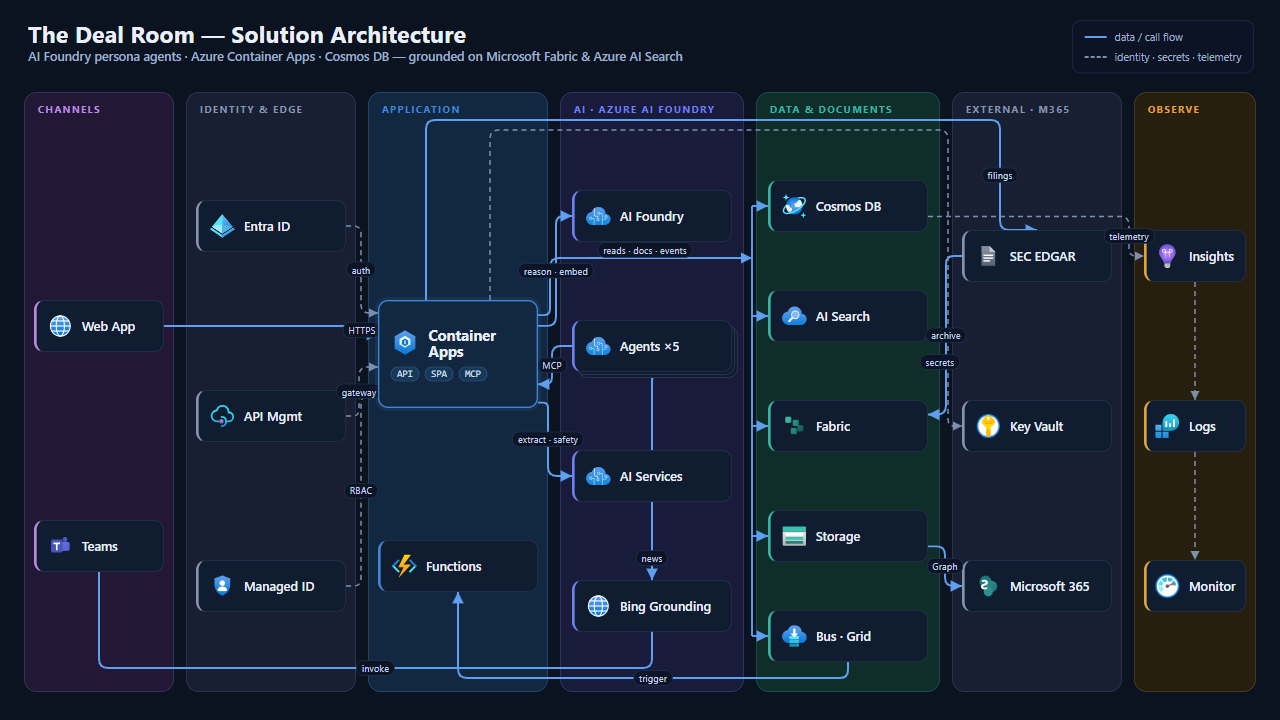
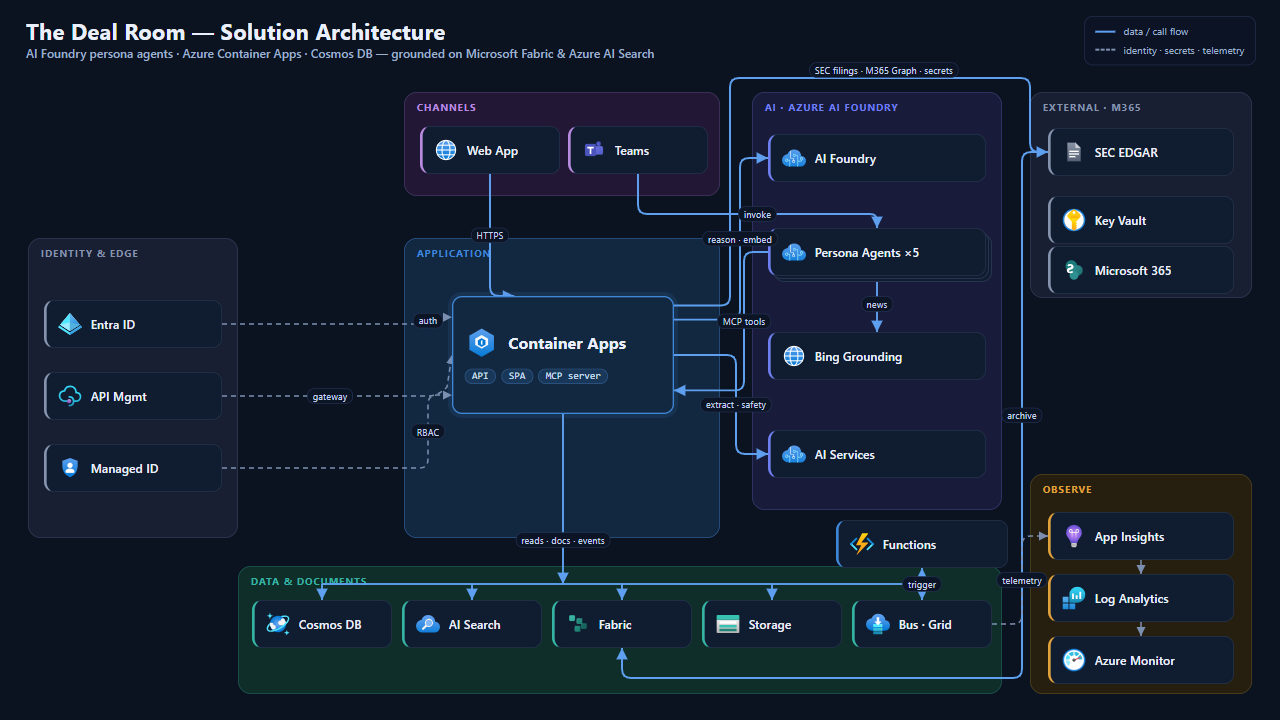
Rework slide diagram into a hub-and-spoke architecture map
The previous slide used a strict left-to-right column pipeline, which reads
like a flowchart. Real architecture diagrams are hub-and-spoke / centered-
containment with multi-directional flow. Rebuilt accordingly:

- Container Apps core is centered; domains are grouped around it and connectors
  radiate outward — north to Channels, west to Identity & Edge, east to AI
  Foundry, south to a Data & Documents bus, and into the External and Observe
  corners.
- Reordered AI nodes so the Bing "news" edge no longer cuts through AI Services;
  collapsed the three external-system links into one clean grouped spoke;
  moved Functions clear of the AI zone; kept the data-bus, legend, 3-size type
  scale, single focal hub and flat cards.

Updated DESIGN-NOTES.md (principle #1 + iteration history v1/v2/v3).
deal-room-architecture-slide.png re-exported at 1280x720.

diff --git a/docs/architecture/deal-room-architecture-slide.html b/docs/architecture/deal-room-architecture-slide.html
@@ -5,12 +5,12 @@
 <title>The Deal Room — Architecture Map</title>
 <style>
   :root{
-    --ink:#eaf0fb; --dim:#9fb0cc; --faint:#7386a5;
-    --app:#3f86d6; --appbg:#122740; --appedge:#295583;
+    --ink:#eaf0fb; --dim:#9fb0cc;
+    --app:#3f86d6; --appbg:#122740; --appedge:#2f6098;
     --ai:#6f7ff0; --aibg:#181c3a; --aiedge:#3a3f7a;
-    --data:#37b3a3; --databg:#0f2e2a; --dataedge:#1f5f56;
+    --data:#37b3a3; --databg:#0f2e2a; --dataedge:#1f6157;
     --ext:#8593ad; --extbg:#181f32; --extedge:#333f5a;
-    --chan:#b98be0; --chanbg:#221836; --chanedge:#493a66;
+    --chan:#b98be0; --chanbg:#221836; --chanedge:#4b3c68;
     --obs:#e0a23c; --obsbg:#261f10; --obsedge:#5a4a1f;
     --flow:#5ea0ef; --ctrl:#7d8fb0;
     --card:#101c30; --cardedge:#26344f;
@@ -20,40 +20,37 @@
   #stage{position:relative;width:1280px;height:720px;overflow:hidden;background:#0b1220;color:var(--ink);
     font-family:"Segoe UI",Roboto,Helvetica,Arial,sans-serif;-webkit-font-smoothing:antialiased}
 
-  /* type scale: exactly 3 sizes (NNG visual hierarchy) */
-  .h-title{position:absolute;left:28px;top:18px;font-size:23px;font-weight:700;letter-spacing:.2px;z-index:6}
-  .h-sub{position:absolute;left:28px;top:48px;font-size:12.5px;color:var(--dim);font-weight:500;z-index:6}
+  .h-title{position:absolute;left:26px;top:16px;font-size:22px;font-weight:700;letter-spacing:.2px;z-index:6}
+  .h-sub{position:absolute;left:26px;top:45px;font-size:12px;color:var(--dim);font-weight:500;z-index:6}
 
-  /* common-region zones */
   .zone{position:absolute;border-radius:13px;border:1px solid;z-index:1}
-  .zone .zh{position:absolute;top:9px;left:13px;font-size:10px;font-weight:700;letter-spacing:1.3px;text-transform:uppercase}
+  .zone .zh{position:absolute;top:8px;left:12px;font-size:9.5px;font-weight:700;letter-spacing:1.2px;text-transform:uppercase}
 
-  /* nodes: one consistent shape/size per type */
-  .n{position:absolute;height:52px;background:var(--card);border:1px solid var(--cardedge);border-radius:10px;
+  .n{position:absolute;height:48px;background:var(--card);border:1px solid var(--cardedge);border-radius:10px;
     display:flex;align-items:center;gap:9px;padding:0 11px;z-index:4}
-  .n img{width:25px;height:25px;flex:0 0 auto}
-  .n b{font-size:12.5px;font-weight:600;line-height:1.15;letter-spacing:.1px}
-  .n.hub{height:108px;flex-direction:column;align-items:flex-start;justify-content:center;gap:7px;
-    background:var(--appbg);border:1.5px solid var(--app);box-shadow:0 0 0 3px rgba(63,134,214,.12);z-index:5}
-  .n.hub .row{display:flex;align-items:center;gap:9px}
-  .n.hub img{width:29px;height:29px}
-  .n.hub b{font-size:14.5px;font-weight:700}
+  .n img{width:24px;height:24px;flex:0 0 auto}
+  .n b{font-size:12px;font-weight:600;line-height:1.15;letter-spacing:.1px}
+  .n.hub{height:118px;flex-direction:column;align-items:flex-start;justify-content:center;gap:8px;
+    background:var(--appbg);border:1.5px solid var(--app);box-shadow:0 0 0 4px rgba(63,134,214,.12);z-index:5}
+  .n.hub .row{display:flex;align-items:center;gap:10px}
+  .n.hub img{width:34px;height:34px}
+  .n.hub b{font-size:16px;font-weight:700}
   .n.hub .eps{display:flex;gap:5px}
-  .n.hub .eps i{font-style:normal;font-size:9.5px;color:#cfe0f6;background:rgba(63,134,214,.16);
-    border:1px solid rgba(94,160,239,.32);border-radius:9px;padding:1px 6px;font-family:Consolas,monospace}
+  .n.hub .eps i{font-style:normal;font-size:10px;color:#cfe0f6;background:rgba(63,134,214,.16);
+    border:1px solid rgba(94,160,239,.32);border-radius:9px;padding:1px 7px;font-family:Consolas,monospace}
   .n.stack{box-shadow:3px 3px 0 -1px var(--card),3px 3px 0 0 var(--cardedge),6px 6px 0 -1px var(--card),6px 6px 0 0 var(--cardedge)}
-  .n.t-app{border-left:3px solid var(--app)} .n.t-ai{border-left:3px solid var(--ai)}
-  .n.t-data{border-left:3px solid var(--data)} .n.t-ext{border-left:3px solid var(--ext)}
-  .n.t-chan{border-left:3px solid var(--chan)} .n.t-obs{border-left:3px solid var(--obs)}
+  .n.t-ai{border-left:3px solid var(--ai)} .n.t-data{border-left:3px solid var(--data)}
+  .n.t-ext{border-left:3px solid var(--ext)} .n.t-chan{border-left:3px solid var(--chan)}
+  .n.t-obs{border-left:3px solid var(--obs)} .n.t-app{border-left:3px solid var(--app)}
 
   svg#wires{position:absolute;inset:0;width:1280px;height:720px;z-index:3;pointer-events:none}
   .elabel{position:absolute;z-index:4;font-size:9px;color:#c3d3ee;background:#0c1526;border:1px solid #223151;
     border-radius:7px;padding:1px 5px;transform:translate(-50%,-50%);white-space:nowrap;letter-spacing:.2px}
 
-  .legend{position:absolute;right:26px;top:20px;z-index:6;display:flex;flex-direction:column;gap:6px;
-    background:rgba(12,20,38,.82);border:1px solid #223151;border-radius:9px;padding:9px 12px}
-  .legend .lr{display:flex;align-items:center;gap:8px;font-size:10.5px;color:var(--dim)}
-  .legend .sw{width:22px;height:0;border-top:2px solid var(--flow)}
+  .legend{position:absolute;right:24px;top:16px;z-index:6;display:flex;flex-direction:column;gap:5px;
+    background:rgba(12,20,38,.82);border:1px solid #223151;border-radius:9px;padding:8px 11px}
+  .legend .lr{display:flex;align-items:center;gap:8px;font-size:10px;color:var(--dim)}
+  .legend .sw{width:20px;height:0;border-top:2px solid var(--flow)}
   .legend .sw.d{border-top:2px dashed var(--ctrl)}
 </style>
 </head>
@@ -66,50 +63,57 @@
     <div class="lr"><span class="sw d"></span> identity · secrets · telemetry</div>
   </div>
 
-  <!-- ZONES -->
-  <div class="zone" style="left:24px;top:92px;width:150px;height:600px;background:var(--chanbg);border-color:var(--chanedge)"><div class="zh" style="color:var(--chan)">Channels</div></div>
-  <div class="zone" style="left:186px;top:92px;width:170px;height:600px;background:var(--extbg);border-color:var(--extedge)"><div class="zh" style="color:var(--ext)">Identity &amp; Edge</div></div>
-  <div class="zone" style="left:368px;top:92px;width:180px;height:600px;background:var(--appbg);border-color:var(--appedge)"><div class="zh" style="color:var(--app)">Application</div></div>
-  <div class="zone" style="left:560px;top:92px;width:184px;height:600px;background:var(--aibg);border-color:var(--aiedge)"><div class="zh" style="color:var(--ai)">AI · Azure AI Foundry</div></div>
-  <div class="zone" style="left:756px;top:92px;width:184px;height:600px;background:var(--databg);border-color:var(--dataedge)"><div class="zh" style="color:var(--data)">Data &amp; Documents</div></div>
-  <div class="zone" style="left:952px;top:92px;width:170px;height:600px;background:var(--extbg);border-color:var(--extedge)"><div class="zh" style="color:var(--ext)">External · M365</div></div>
-  <div class="zone" style="left:1134px;top:92px;width:122px;height:600px;background:var(--obsbg);border-color:var(--obsedge)"><div class="zh" style="color:var(--obs)">Observe</div></div>
+  <!-- ZONES (grouped domains around the hub) -->
+  <div class="zone" style="left:404px;top:92px;width:316px;height:104px;background:var(--chanbg);border-color:var(--chanedge)"><div class="zh" style="color:var(--chan)">Channels</div></div>
+  <div class="zone" style="left:404px;top:238px;width:316px;height:300px;background:var(--appbg);border-color:var(--appedge)"><div class="zh" style="color:var(--app)">Application</div></div>
+  <div class="zone" style="left:28px;top:238px;width:210px;height:300px;background:var(--extbg);border-color:var(--extedge)"><div class="zh" style="color:var(--ext)">Identity &amp; Edge</div></div>
+  <div class="zone" style="left:752px;top:92px;width:250px;height:418px;background:var(--aibg);border-color:var(--aiedge)"><div class="zh" style="color:var(--ai)">AI · Azure AI Foundry</div></div>
+  <div class="zone" style="left:238px;top:566px;width:764px;height:128px;background:var(--databg);border-color:var(--dataedge)"><div class="zh" style="color:var(--data)">Data &amp; Documents</div></div>
+  <div class="zone" style="left:1030px;top:92px;width:222px;height:206px;background:var(--extbg);border-color:var(--extedge)"><div class="zh" style="color:var(--ext)">External · M365</div></div>
+  <div class="zone" style="left:1030px;top:474px;width:222px;height:220px;background:var(--obsbg);border-color:var(--obsedge)"><div class="zh" style="color:var(--obs)">Observe</div></div>
 
   <svg id="wires"></svg>
 
-  <!-- NODES -->
-  <!-- Channels -->
-  <div class="n t-chan" id="web"   style="left:34px;top:300px;width:130px"><img src="icons/web.svg"><b>Web App</b></div>
-  <div class="n t-chan" id="teams" style="left:34px;top:520px;width:130px"><img src="icons/teams.svg"><b>Teams</b></div>
-  <!-- Identity & Edge -->
-  <div class="n t-ext" id="entra" style="left:196px;top:200px;width:150px"><img src="icons/entra.svg"><b>Entra ID</b></div>
-  <div class="n t-ext" id="apim"  style="left:196px;top:390px;width:150px"><img src="icons/apim.svg"><b>API Mgmt</b></div>
-  <div class="n t-ext" id="mi"    style="left:196px;top:560px;width:150px"><img src="icons/managedidentity.svg"><b>Managed ID</b></div>
-  <!-- Application -->
-  <div class="n hub" id="ca" style="left:378px;top:300px;width:160px">
+  <!-- CHANNELS (top) -->
+  <div class="n t-chan" id="web"   style="left:420px;top:126px;width:140px"><img src="icons/web.svg"><b>Web App</b></div>
+  <div class="n t-chan" id="teams" style="left:568px;top:126px;width:140px"><img src="icons/teams.svg"><b>Teams</b></div>
+
+  <!-- APPLICATION HUB (center) -->
+  <div class="n hub" id="ca" style="left:452px;top:296px;width:222px">
     <div class="row"><img src="icons/containerapps.svg"><b>Container Apps</b></div>
-    <div class="eps"><i>API</i><i>SPA</i><i>MCP</i></div>
+    <div class="eps"><i>API</i><i>SPA</i><i>MCP server</i></div>
   </div>
-  <div class="n t-app" id="func" style="left:378px;top:540px;width:160px"><img src="icons/function.svg"><b>Functions</b></div>
-  <!-- AI -->
-  <div class="n t-ai" id="foundry"      style="left:572px;top:190px;width:160px"><img src="icons/cognitive.svg"><b>AI Foundry</b></div>
-  <div class="n t-ai stack" id="agents" style="left:572px;top:320px;width:160px"><img src="icons/cognitive.svg"><b>Agents ×5</b></div>
-  <div class="n t-ai" id="aisvcs"       style="left:572px;top:450px;width:160px"><img src="icons/cognitive.svg"><b>AI Services</b></div>
-  <div class="n t-ai" id="bing"         style="left:572px;top:580px;width:160px"><img src="icons/web.svg"><b>Bing Grounding</b></div>
-  <!-- Data -->
-  <div class="n t-data" id="cosmos"  style="left:768px;top:180px;width:160px"><img src="icons/cosmos.svg"><b>Cosmos DB</b></div>
-  <div class="n t-data" id="search"  style="left:768px;top:290px;width:160px"><img src="icons/search.svg"><b>AI Search</b></div>
-  <div class="n t-data" id="fabric"  style="left:768px;top:400px;width:160px"><img src="icons/fabric.svg"><b>Fabric</b></div>
-  <div class="n t-data" id="storage" style="left:768px;top:510px;width:160px"><img src="icons/storage.svg"><b>Storage</b></div>
-  <div class="n t-data" id="msg"     style="left:768px;top:610px;width:160px"><img src="icons/servicebus.svg"><b>Bus · Grid</b></div>
-  <!-- External -->
-  <div class="n t-ext" id="edgar" style="left:962px;top:230px;width:150px"><img src="icons/edgar.svg"><b>SEC EDGAR</b></div>
-  <div class="n t-ext" id="kv"    style="left:962px;top:400px;width:150px"><img src="icons/keyvault.svg"><b>Key Vault</b></div>
-  <div class="n t-ext" id="m365"  style="left:962px;top:560px;width:150px"><img src="icons/sharepoint.svg"><b>Microsoft 365</b></div>
-  <!-- Observe -->
-  <div class="n t-obs" id="appins" style="left:1144px;top:230px;width:102px;padding:0 8px"><img src="icons/appinsights.svg"><b>Insights</b></div>
-  <div class="n t-obs" id="law"    style="left:1144px;top:400px;width:102px;padding:0 8px"><img src="icons/loganalytics.svg"><b>Logs</b></div>
-  <div class="n t-obs" id="mon"    style="left:1144px;top:560px;width:102px;padding:0 8px"><img src="icons/monitor.svg"><b>Monitor</b></div>
+
+  <!-- IDENTITY & EDGE (left) -->
+  <div class="n t-ext" id="entra" style="left:44px;top:300px;width:178px"><img src="icons/entra.svg"><b>Entra ID</b></div>
+  <div class="n t-ext" id="apim"  style="left:44px;top:372px;width:178px"><img src="icons/apim.svg"><b>API Mgmt</b></div>
+  <div class="n t-ext" id="mi"    style="left:44px;top:444px;width:178px"><img src="icons/managedidentity.svg"><b>Managed ID</b></div>
+
+  <!-- AI (right) -->
+  <div class="n t-ai" id="foundry"      style="left:768px;top:134px;width:218px"><img src="icons/cognitive.svg"><b>AI Foundry</b></div>
+  <div class="n t-ai stack" id="agents" style="left:768px;top:228px;width:218px"><img src="icons/cognitive.svg"><b>Persona Agents ×5</b></div>
+  <div class="n t-ai" id="bing"         style="left:768px;top:332px;width:218px"><img src="icons/web.svg"><b>Bing Grounding</b></div>
+  <div class="n t-ai" id="aisvcs"       style="left:768px;top:430px;width:218px"><img src="icons/cognitive.svg"><b>AI Services</b></div>
+
+  <!-- DATA & DOCUMENTS (bottom band) -->
+  <div class="n t-data" id="cosmos"  style="left:252px;top:600px;width:140px"><img src="icons/cosmos.svg"><b>Cosmos DB</b></div>
+  <div class="n t-data" id="search"  style="left:402px;top:600px;width:140px"><img src="icons/search.svg"><b>AI Search</b></div>
+  <div class="n t-data" id="fabric"  style="left:552px;top:600px;width:140px"><img src="icons/fabric.svg"><b>Fabric</b></div>
+  <div class="n t-data" id="storage" style="left:702px;top:600px;width:140px"><img src="icons/storage.svg"><b>Storage</b></div>
+  <div class="n t-data" id="msg"     style="left:852px;top:600px;width:140px"><img src="icons/servicebus.svg"><b>Bus · Grid</b></div>
+
+  <!-- FUNCTIONS (event handler, above the Bus) -->
+  <div class="n t-app" id="func" style="left:836px;top:520px;width:172px"><img src="icons/function.svg"><b>Functions</b></div>
+
+  <!-- EXTERNAL · M365 (top-right) -->
+  <div class="n t-ext" id="edgar" style="left:1048px;top:128px;width:186px"><img src="icons/edgar.svg"><b>SEC EDGAR</b></div>
+  <div class="n t-ext" id="kv"    style="left:1048px;top:196px;width:186px"><img src="icons/keyvault.svg"><b>Key Vault</b></div>
+  <div class="n t-ext" id="m365"  style="left:1048px;top:246px;width:186px"><img src="icons/sharepoint.svg"><b>Microsoft 365</b></div>
+
+  <!-- OBSERVE (bottom-right) -->
+  <div class="n t-obs" id="appins" style="left:1048px;top:512px;width:186px"><img src="icons/appinsights.svg"><b>App Insights</b></div>
+  <div class="n t-obs" id="law"    style="left:1048px;top:574px;width:186px"><img src="icons/loganalytics.svg"><b>Log Analytics</b></div>
+  <div class="n t-obs" id="mon"    style="left:1048px;top:636px;width:186px"><img src="icons/monitor.svg"><b>Azure Monitor</b></div>
 </div>
 
 <script>
@@ -150,53 +154,42 @@ function wire(points,opt={}){line(points,opt); if(opt.label){const i=Math.max(1,
   const m=points[i-1],n=points[i]; tag((m.x+n.x)/2,(m.y+n.y)/2,opt.label);}}
 
 requestAnimationFrame(()=>{
-  // ---------- LEFT: channels & edge -> hub ----------
-  wire([pt('web','r'),{x:362,y:pt('web','r').y},{x:362,y:pt('ca','l',0.32).y},pt('ca','l',0.32)],{label:'HTTPS'});
-  wire([pt('entra','r'),{x:361,y:pt('entra','r').y},{x:361,y:pt('ca','l',0.12).y},pt('ca','l',0.12)],{ctrl:true,label:'auth'});
-  wire([pt('mi','r'),{x:361,y:pt('mi','r').y},{x:361,y:pt('ca','l',0.88).y},pt('ca','l',0.88)],{ctrl:true,label:'RBAC'});
-  wire([pt('apim','r'),{x:359,y:pt('apim','r').y},{x:359,y:pt('ca','l',0.62).y},pt('ca','l',0.62)],{ctrl:true,label:'gateway'});
+  // ===== NORTH: channels -> hub / agents =====
+  wire([pt('web','b',0.5),{x:pt('web','b').x,y:pt('ca','t',0.28).y-0},pt('ca','t',0.28)],{label:'HTTPS'});
+  // Teams -> Agents (channel into AI), routed up-right through the channels/AI gap
+  wire([pt('teams','b',0.5),{x:pt('teams','b').x,y:214},{x:pt('agents','t').x,y:214},pt('agents','t',0.5)],{label:'invoke'});
 
-  // ---------- HUB -> AI zone (adjacent) ----------
-  wire([pt('ca','r',0.24),{x:556,y:pt('ca','r',0.24).y},{x:556,y:pt('foundry','l').y},pt('foundry','l')],{label:'reason · embed'});
-  wire([pt('agents','l'),{x:552,y:pt('agents','l').y},{x:552,y:pt('ca','r',0.78).y},pt('ca','r',0.78)],{label:'MCP'});
-  wire([pt('ca','r',0.95),{x:548,y:pt('ca','r',0.95).y},{x:548,y:pt('aisvcs','l').y},pt('aisvcs','l')],{label:'extract · safety'});
-  wire([pt('agents','b',0.5),{x:pt('agents','b').x,y:558},{x:pt('bing','t').x,y:558},pt('bing','t')],{label:'news'});
+  // ===== WEST: identity & edge -> hub (dashed) =====
+  wire([pt('entra','r'),{x:pt('ca','l').x-24,y:pt('entra','r').y},{x:pt('ca','l').x-24,y:pt('ca','l',0.18).y},pt('ca','l',0.18)],{ctrl:true,label:'auth'});
+  wire([pt('apim','r'),{x:pt('ca','l').x-14,y:pt('apim','r').y},pt('ca','l',0.5)],{ctrl:true,label:'gateway'});
+  wire([pt('mi','r'),{x:pt('ca','l').x-24,y:pt('mi','r').y},{x:pt('ca','l').x-24,y:pt('ca','l',0.84).y},pt('ca','l',0.84)],{ctrl:true,label:'RBAC'});
 
-  // ---------- Teams -> Agents (bottom trunk, clean) ----------
-  wire([pt('teams','b'),{x:pt('teams','b').x,y:668},{x:652,y:668},{x:652,y:pt('agents','b').y},pt('agents','b',0.74)],{label:'invoke'});
+  // ===== EAST: hub <-> AI =====
+  wire([pt('ca','r',0.20),{x:740,y:pt('ca','r',0.20).y},{x:740,y:pt('foundry','l').y},pt('foundry','l')],{label:'reason · embed'});
+  wire([pt('agents','l'),{x:744,y:pt('agents','l').y},{x:744,y:pt('ca','r',0.80).y},pt('ca','r',0.80)],{label:'MCP tools'});
+  wire([pt('ca','r',0.5),{x:736,y:pt('ca','r',0.5).y},{x:736,y:pt('aisvcs','l').y},pt('aisvcs','l')],{label:'extract · safety'});
+  wire([pt('agents','b',0.5),pt('bing','t',0.5)],{label:'news'});
 
-  // ---------- HUB -> DATA via a vertical BUS + short taps (one feeder label) ----------
-  const busX=752;
-  // feeder: hub right -> cross AI zone at the Foundry/Agents gap (y=258) -> bus
-  const fy=pt('ca','r',0.14).y;
-  line([pt('ca','r',0.14),{x:550,y:fy},{x:550,y:258},{x:busX,y:258}]);
-  tag(645,250,'reads · docs · events');
-  // vertical bus spanning the data column
-  const yTop=pt('cosmos','l').y, yBot=pt('msg','l').y;
-  line([{x:busX,y:yTop},{x:busX,y:yBot}],{arrow:false});
-  // short taps into each data node
-  ['cosmos','search','fabric','storage','msg'].forEach(id=>{
-    const b=pt(id,'l'); line([{x:busX,y:b.y},b]);
-  });
+  // ===== SOUTH: hub -> data (single feeder onto a bus, short taps) =====
+  const busY=584;
+  line([pt('ca','b',0.5),{x:pt('ca','b').x,y:busY}]);       // feeder
+  tag(pt('ca','b').x,540,'reads · docs · events');
+  line([{x:322,y:busY},{x:922,y:busY}],{arrow:false});     // bus
+  ['cosmos','search','fabric','storage','msg'].forEach(id=>{const b=pt(id,'t',0.5);line([{x:b.x,y:busY},b]);});
 
-  // ---------- product-to-product ----------
-  wire([pt('msg','b',0.5),{x:pt('msg','b').x,y:678},{x:pt('func','b').x,y:678},pt('func','b',0.5)],{label:'trigger'});
-  wire([pt('edgar','l'),{x:946,y:pt('edgar','l').y},{x:946,y:pt('fabric','r',0.28).y},pt('fabric','r',0.28)],{label:'archive'});
+  // ===== product-to-product =====
+  wire([pt('msg','t',0.5),pt('func','b',0.5)],{label:'trigger'});             // Bus -> Functions
+  // EDGAR -> Fabric (archive filings): down the right gutter, then along the data-zone base
+  wire([pt('edgar','l'),{x:1022,y:pt('edgar','l').y},{x:1022,y:678},{x:pt('fabric','b').x,y:678},pt('fabric','b',0.5)],{label:'archive'});
 
-  // ---------- External M365 & Key Vault (perimeter, from the app) ----------
-  // Key Vault (secrets, dashed): top perimeter, then down the data/external gap into KV's LEFT (avoids EDGAR)
-  wire([pt('ca','t',0.7),{x:pt('ca','t',0.7).x,y:130},{x:948,y:130},{x:948,y:pt('kv','l').y},pt('kv','l')],{ctrl:true});
-  tag(940,362,'secrets');
-  // Microsoft 365 (Graph): from Storage area rightwards (Graph doc workspaces)
-  wire([pt('storage','r',0.7),{x:945,y:pt('storage','r',0.7).y},{x:945,y:pt('m365','l').y},pt('m365','l')],{label:'Graph'});
-  // EDGAR filings fetched by the app: top perimeter
-  wire([pt('ca','t',0.3),{x:pt('ca','t',0.3).x,y:120},{x:1000,y:120},{x:1000,y:pt('edgar','t').y},pt('edgar','t',0.5)],{});
-  tag(1000,175,'filings');
+  // ===== NORTH-EAST: single spoke, app -> external systems (top channel) =====
+  wire([pt('ca','r',0.08),{x:730,y:pt('ca','r',0.08).y},{x:730,y:78},{x:1030,y:78},{x:1030,y:pt('edgar','l',0.5).y},pt('edgar','l')],{});
+  tag(884,70,'SEC filings · M365 Graph · secrets');
 
-  // ---------- Observability (telemetry chain) ----------
-  wire([pt('cosmos','r',0.7),{x:1129,y:pt('cosmos','r',0.7).y},{x:1129,y:pt('appins','l').y},pt('appins','l')],{ctrl:true,label:'telemetry'});
-  wire([pt('appins','b',0.5),{x:pt('appins','b').x,y:pt('law','t').y-10},pt('law','t',0.5)],{ctrl:true});
-  wire([pt('law','b',0.5),{x:pt('law','b').x,y:pt('mon','t').y-10},pt('mon','t',0.5)],{ctrl:true});
+  // ===== SOUTH-EAST: observability (telemetry from data, then chain) =====
+  wire([pt('msg','r',0.5),{x:1022,y:pt('msg','r',0.5).y},{x:1022,y:pt('appins','l').y},pt('appins','l')],{ctrl:true,label:'telemetry'});
+  wire([pt('appins','b',0.5),pt('law','t',0.5)],{ctrl:true});
+  wire([pt('law','b',0.5),pt('mon','t',0.5)],{ctrl:true});
 });
 </script>
 </body>

diff --git a/docs/architecture/DESIGN-NOTES.md b/docs/architecture/DESIGN-NOTES.md
@@ -6,8 +6,8 @@ The slide diagram ([`deal-room-architecture-slide.html`](./deal-room-architectur
 
 | # | Principle applied in the diagram | Source(s) |
 |---|---|---|
-| 1 | **Strict left→right flow** — Channels → Identity/Edge → Application → AI → Data → External → Observe | Azure WAF Design Diagrams; draw.io Azure guide |
-| 2 | **Common-region zones** — each tier is a shaded, labeled bounding box so membership is unambiguous | NNG *Common Region*; NNG *Proximity*; draw.io "logical blocks" |
+| 1 | **Hub-and-spoke / centered-containment layout** — the Container Apps core sits center-stage with domains radiating out (channels above, identity left, AI right, data below, external &amp; observe in the corners). Flow is **multi-directional**, as most real architecture diagrams are — not a single-direction pipeline | Azure WAF Design Diagrams; draw.io "logical blocks"; NNG *Common Region* |
+| 2 | **Common-region zones** — each domain is a shaded, labeled bounding box so membership is unambiguous | NNG *Common Region*; NNG *Proximity*; draw.io "logical blocks" |
 | 3 | **One consistent shape/size per node type**; colour rail encodes tier, not decoration | NNG *Similarity*; Azure WAF ("consistent colours/icon sizes") |
 | 4 | **Orthogonal, single-ended, labeled connectors**; no bidirectional arrows | C4 Notation; Azure WAF; Structurizr |
 | 5 | **Minimise line crossings** — a vertical *data bus* with short taps replaces a 5-line "curtain" | IDF *Law of Continuity*; graph-drawing practice |
@@ -44,6 +44,8 @@ The slide diagram ([`deal-room-architecture-slide.html`](./deal-room-architectur
 18. Edward Tufte — Chartjunk / data-ink — https://en.wikipedia.org/wiki/Chartjunk — remove decorative fills, 3-D, gradients; maximise data-ink.
 19. NNG — Low Contrast — https://www.nngroup.com/articles/low-contrast/ — insufficient text/background contrast degrades legibility; shaded regions must still allow readable labels.
 
-## What changed from the first attempt
+## What changed across iterations
 
-The first slide draft failed several of the rules above: curved bezier connectors crossed each other (a "confused mess of boxes and lines" — #4, and violating the Law of Continuity — #17), tiers had large empty areas (poor use of structural whitespace — #12), edges were unlabeled (#6) and there was no legend (#7), and the flow had no consistent direction (#1). The rebuild applies strict left→right flow, common-region zones, orthogonal labeled connectors with a data-bus to eliminate crossings, a legend, a three-size type scale, and a single focal hub.
+- **v1 (rejected)** — curved bezier connectors crossed each other (a "confused mess of boxes and lines" — violating the Law of Continuity), tiers had dead whitespace, edges were unlabeled and there was no legend.
+- **v2 (rejected)** — fixed the connectors, zones and legend, but used a **strict left→right column pipeline**. That reads like a flowchart, not an architecture map; real architecture diagrams are rarely a single-direction pipeline.
+- **v3 (current)** — a **hub-and-spoke / centered-containment** layout: the Container Apps core is central, with domains grouped around it and connectors radiating in all directions (north to channels, west to identity, east to AI, south to a data bus, and to the external/observability corners). A single grouped spoke to the External · M365 zone and a short telemetry chain in the Observe corner keep the periphery clean. This matches how Azure reference architectures are actually drawn, while still honoring the notation/visual rules above (grouping, labeled single-ended connectors, a legend, a 3-size type scale, one focal hub, minimal crossings, flat cards).